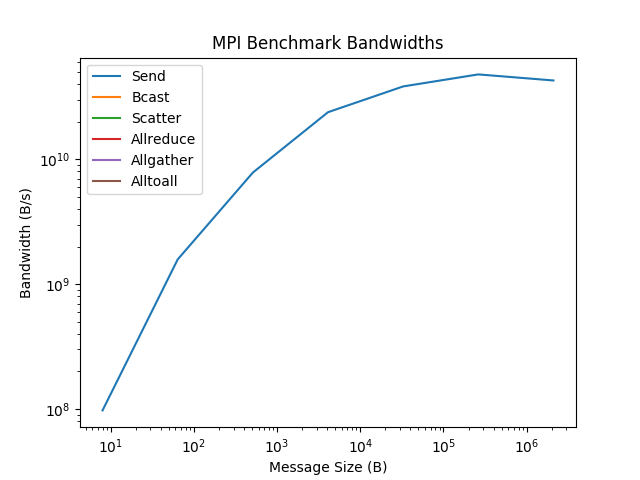
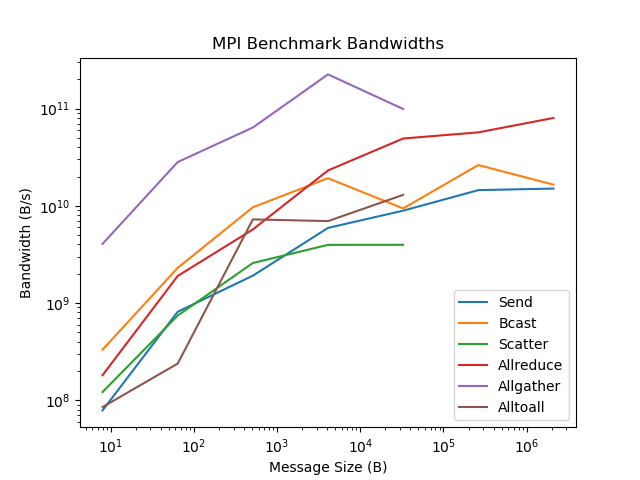
update on assignment 5

diff --git a/assignments/5-mpi-timings/benchmarks.c b/assignments/5-mpi-timings/benchmarks.c
@@ -17,12 +17,10 @@ int splitCommunicator(MPI_Comm comm, int firstCommSize, MPI_Comm *subComm_p)
    * `VecGetGlobalSize_tree_subcomm()` in the file `dmv_global_size.c` in the
    * `notes/mpi/dmv` example.
    */
-    
-   int err, rank, size, color;
-   rank = MPI_Comm_rank(comm, &rank);
-   size = MPI_Comm_size(comm, &size);
-   color = (rank>=firstCommSize);
-   err = MPI_Comm_split(comm, color, rank, subComm_p); MPI_CHK(err);
+  int err, rank, color;
+  err = MPI_Comm_rank(comm, &rank); MPI_CHK(err);
+  color = (rank >= firstCommSize);
+  err = MPI_Comm_split(comm, color, rank, subComm_p); MPI_CHK(err);
   return 0;
 }
 
@@ -131,23 +129,28 @@ int main(int argc, char **argv)
           " # Processes  | Message Size | Total Size   | Time         | B/s\n");
   for (int numComm = 14; numComm <= size; numComm *= 2) {
     MPI_Comm subComm = MPI_COMM_NULL;
-
-    err = splitCommunicator(comm, numComm, &subComm); MPI_CHK(err);
-    for (int numBytes = 8; numBytes <= maxSize; numBytes *= 8) {
-      double        timeAvg = 0.;
-      long long int totalNumBytes = numBytes * numComm; 
+    err = splitCommunicator(comm, numComm, &subComm); 
+    MPI_CHK(err);
+    
+    for (int numBytes = 8; numBytes <= maxSize; numBytes *= 8) 
+    {
       double tic = -1;
-
-      for (int t = 0; t < numTests + numSkip; t++) {
-        //double tic = -1.;
-
-        if (t == numSkip) {
-          err = startTime(&tic); MPI_CHK(err);
+      double timeAvg = 0.;
+      long long int totalNumBytes = numBytes * numComm; 
+      //double tic = -1;//
+      for (int t = 0; t < numTests + numSkip; t++) 
+      {
+        //double tic = -1.;//
+        if (t == numSkip) 
+        {
+          err = startTime(&tic); 
+          MPI_CHK(err);
         }
         if (rank < numComm) {
           if (rank < numComm / 2) {
             err = MPI_Send(buffer, numBytes, MPI_BYTE, rank + numComm / 2, 0, subComm); MPI_CHK(err);
-            err = MPI_Recv(buffer, numBytes, MPI_BYTE, rank + numComm / 2, 0, subComm, MPI_STATUS_IGNORE); MPI_CHK(err);
+            err = MPI_Recv(buffer, numBytes, MPI_BYTE, rank + numComm / 2, 0, subComm, MPI_STATUS_IGNORE); 
+              MPI_CHK(err);
           } else {
             err = MPI_Recv (buffer, numBytes, MPI_BYTE, rank - numComm / 2, 0, subComm, MPI_STATUS_IGNORE); MPI_CHK(err);
             err = MPI_Send (buffer, numBytes, MPI_BYTE, rank - numComm / 2, 0, subComm); MPI_CHK(err);
@@ -174,7 +177,7 @@ int main(int argc, char **argv)
 
     err = splitCommunicator(MPI_COMM_WORLD, numComm, &subComm); MPI_CHK(err);
     for (int numBytes = 8; numBytes <= maxSize; numBytes *= 8) {
-      double        timeAvg = 0.;
+      double timeAvg = 0.;
       long long int totalNumBytes = numBytes * (numComm - 1) * 2;
 
       /* TODO: Set up a ping pong test for the broadcast collective.  When
@@ -185,23 +188,38 @@ int main(int argc, char **argv)
        * the collective with the reverse communication pattern of broadcast
        * for the 'pong' message.
        * (HINT: look up the proper usage of MPI_IN_PLACE) */
-      
-      /////////////My Code//////////////////
-
-        
-        
-        
-        
-        
-        
-        
-        
-        
-        
-        
-        
-      /////////////My Code//////////////////
-        
+      double tic = -1;
+      char* tmp_buffer;
+      tmp_buffer = (char *)calloc(totalNumBytes, sizeof(char));  // ???
+      if (!tmp_buffer)
+        return 1;
+      for (int t = 0; t < numTests + numSkip; t++)
+      {
+        if (t == numSkip)
+        {
+          err = startTime(&tic);
+          MPI_CHK(err);
+        }
+        if (!rank)
+        {
+          err = MPI_Bcast(buffer, numBytes, MPI_BYTE, 0, subComm);
+          MPI_CHK(err);
+          err = MPI_Reduce(MPI_IN_PLACE, buffer, numBytes, MPI_BYTE, MPI_BXOR, 0, subComm);
+          MPI_CHK(err);
+        }
+        else
+        {
+          err = MPI_Bcast(buffer, numBytes, MPI_BYTE, 0, subComm);
+          MPI_CHK(err);
+          err = MPI_Reduce(buffer, tmp_buffer, numBytes, MPI_BYTE, MPI_BXOR, 0, subComm);
+          MPI_CHK(err);
+        }
+      }
+      err = stopTime(tic, &timeAvg);
+      MPI_CHK(err);
+      timeAvg /= numTests;
+      err = maxTime(subComm, timeAvg, &timeAvg);
+      MPI_CHK(err);
       MPI_LOG(rank, " %12d   %12d   %12lld   %+12.5e   %+12.5e\n", numComm, numBytes, totalNumBytes, timeAvg, totalNumBytes / timeAvg);
     }
     err = destroyCommunicator(&subComm); MPI_CHK(err);
@@ -225,6 +243,25 @@ int main(int argc, char **argv)
        * `numBytes` bytes of `buffer2` on the receiving processes.  Use
        * the collective with the reverse communication pattern of scatter
        * for the 'pong' message. */
+      double tic = -1;
+      for (int t = 0; t < numTests + numSkip; t++)
+      {
+        if (t == numSkip)
+        {
+          err = startTime(&tic);
+          MPI_CHK(err);
+        }
+
+        err = MPI_Scatter(buffer, numBytes, MPI_BYTE, buffer2, numBytes, MPI_BYTE, 0, subComm);
+        MPI_CHK(err);
+        err = MPI_Gather(buffer2, numBytes, MPI_BYTE, buffer, numBytes, MPI_BYTE, 0, subComm);
+        MPI_CHK(err);
+      }
+      err = stopTime(tic, &timeAvg);
+      MPI_CHK(err);
+      timeAvg /= numTests;
+      err = maxTime(subComm, timeAvg, &timeAvg);
+      MPI_CHK(err);
       MPI_LOG(rank, " %12d   %12d   %12lld   %+12.5e   %+12.5e\n", numComm, numBytes, totalNumBytes, timeAvg, totalNumBytes / timeAvg);
     }
     err = destroyCommunicator(&subComm); MPI_CHK(err);
@@ -247,6 +284,24 @@ int main(int argc, char **argv)
        * chars of `buffer` from every process and store the results in
        * `buffer` on all processes (HINT: MPI_IN_PLACE again).
        */
+      double tic = -1;
+      for (int t = 0; t < numTests + numSkip; t++)
+      {
+        if (t == numSkip)
+        {
+          err = startTime(&tic);
+          MPI_CHK(err);
+        }
+
+        err = MPI_Allreduce(MPI_IN_PLACE, buffer, numBytes, MPI_BYTE, MPI_BXOR, subComm);
+        MPI_CHK(err);
+      }
+      err = stopTime(tic, &timeAvg);
+      MPI_CHK(err);
+      timeAvg /= numTests;
+      err = maxTime(subComm, timeAvg, &timeAvg);
+      MPI_CHK(err);
+
       MPI_LOG(rank, " %12d   %12d   %12lld   %+12.5e   %+12.5e\n", numComm, numBytes, totalNumBytes, timeAvg, totalNumBytes / timeAvg);
     }
     err = destroyCommunicator(&subComm); MPI_CHK(err);
@@ -269,6 +324,23 @@ int main(int argc, char **argv)
        * bytes of `buffer2` from every process and store the results in
        * `buffer`.
        */
+      double tic = -1;
+      for (int t = 0; t < numTests + numSkip; t++)
+      {
+        if (t == numSkip)
+        {
+          err = startTime(&tic);
+          MPI_CHK(err);
+        }
+
+        err = MPI_Allgather(buffer2, numBytes, MPI_BYTE, buffer, numBytes, MPI_BYTE, subComm);
+        MPI_CHK(err);
+      }
+      err = stopTime(tic, &timeAvg);
+      MPI_CHK(err);
+      timeAvg /= numTests;
+      err = maxTime(subComm, timeAvg, &timeAvg);
+      MPI_CHK(err);
       MPI_LOG(rank, " %12d   %12d   %12lld   %+12.5e   %+12.5e\n", numComm, numBytes, totalNumBytes, timeAvg, totalNumBytes / timeAvg);
     }
     err = destroyCommunicator(&subComm); MPI_CHK(err);
@@ -292,6 +364,23 @@ int main(int argc, char **argv)
        * store the results in `buffer`.  This is another place where
        * MPI_IN_PLACE is relevant.
        */
+      double tic = -1;
+      for (int t = 0; t < numTests + numSkip; t++)
+      {
+        if (t == numSkip)
+        {
+          err = startTime(&tic);
+          MPI_CHK(err);
+        }
+
+        err = MPI_Alltoall(MPI_IN_PLACE, numBytes, MPI_BYTE, buffer, numBytes, MPI_BYTE, subComm);
+        MPI_CHK(err);
+      }
+      err = stopTime(tic, &timeAvg);
+      MPI_CHK(err);
+      timeAvg /= numTests;
+      err = maxTime(subComm, timeAvg, &timeAvg);
+      MPI_CHK(err);
       MPI_LOG(rank, " %12d   %12d   %12lld   %+12.5e   %+12.5e\n", numComm, numBytes, totalNumBytes, timeAvg, totalNumBytes / timeAvg);
     }
     err = destroyCommunicator(&subComm); MPI_CHK(err);
